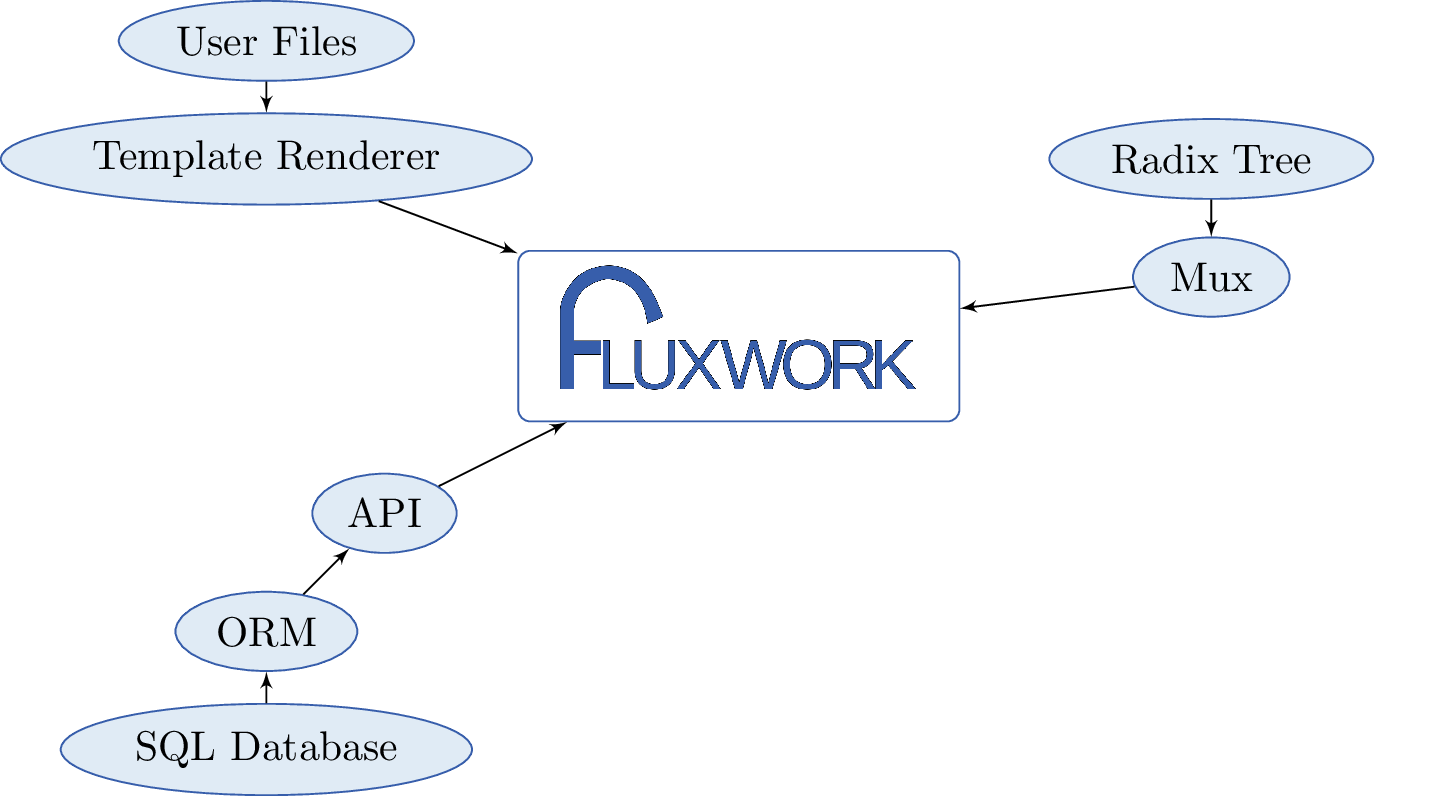
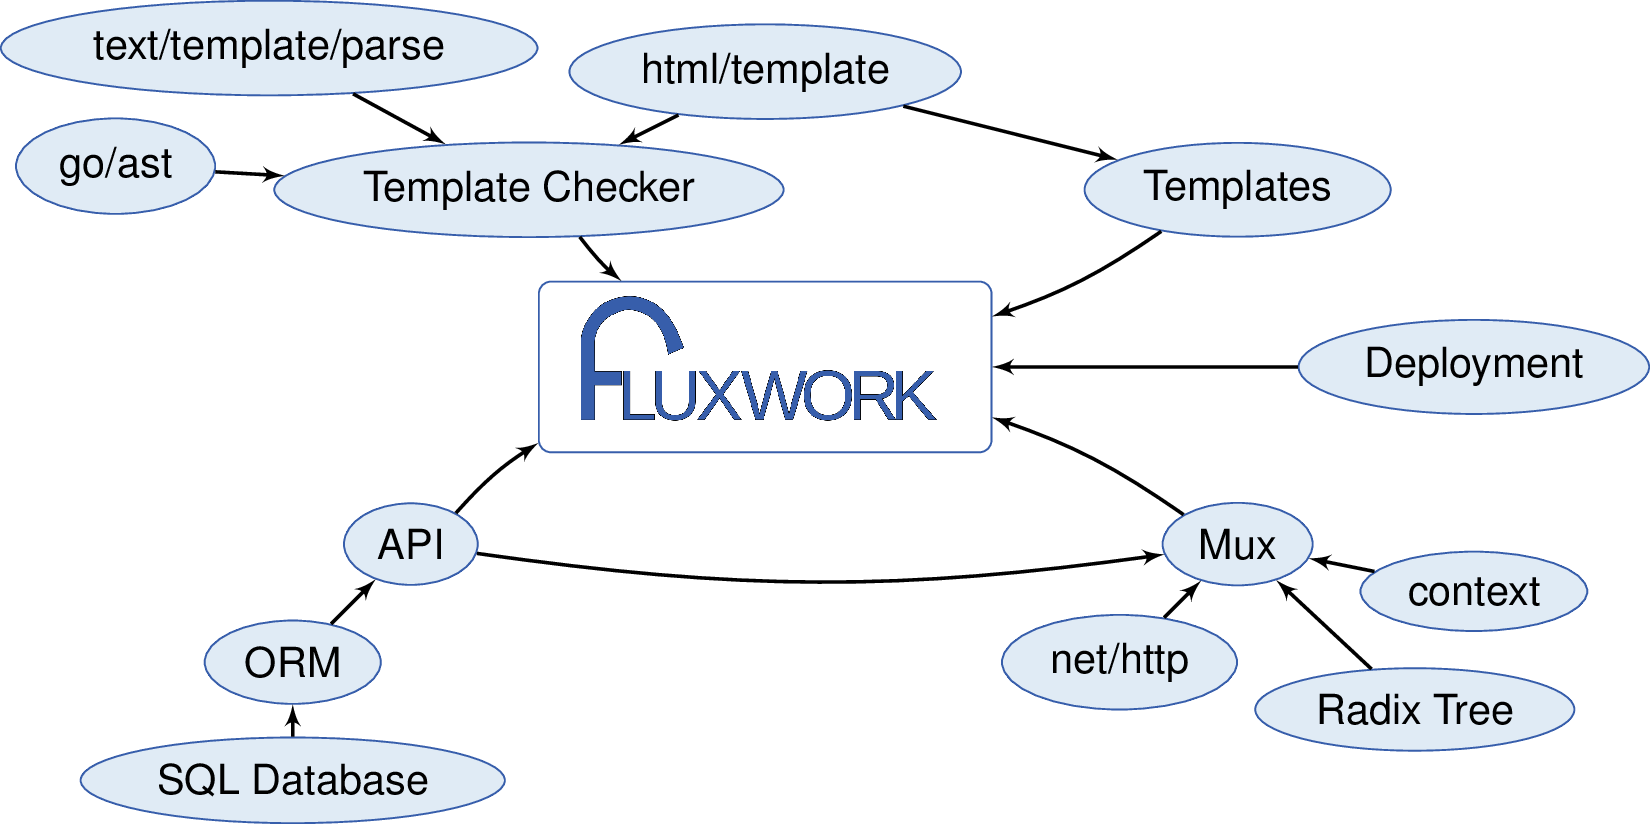
add nodes to pkg

diff --git a/graphics/pkg.tex b/graphics/pkg.tex
@@ -1,23 +1,23 @@
-\documentclass[preview]{standalone}
+\documentclass[]{standalone}
 \usepackage{tikz}
+\usepackage{helvet}
 \usetikzlibrary{arrows,shapes}
 
-\begin{document}
+% default sans
+\renewcommand{\familydefault}{\sfdefault}
 
 % golang colors
 \definecolor{blue}{RGB}{55,94,171}
 \definecolor{lblue}{RGB}{224,235,245}
 
-% default sans
-\renewcommand{\familydefault}{\sfdefault}
 
+\begin{document}
 
 \begin{tikzpicture}
-    \tikzstyle{every node}=[draw=blue,fill=lblue,ellipse,minimum width=100pt,
-    align=center]
+    \tikzstyle{every node}=[draw=blue,fill=lblue,ellipse,align=center]
     \tikzset{
         vertex/.style = {minimum size=1.5em},
-        edge/.style = {->,> = latex'},
+        edge/.style = {thick, ->,> = latex'},
         image/.style 2 args = {
             path picture = {
                 \node at (path picture bounding box.center) {
@@ -26,7 +26,6 @@
         },
         Logo/.style = {
             image = {2.4}{logo},
-            minimum width = 2cm,
         }
     }
     % vertices
@@ -34,28 +33,45 @@
     \node[vertex] (orm) at  (2,1) {ORM};
     \node[vertex] (api) at  (3,2) {API};
 
-    \node[vertex] (mux) at (10,4) {Mux};
-    \node[vertex] (rad) at (10,5) {Radix Tree};
+    \node[vertex] (mux) at (10,2) {Mux};
+    \node[vertex] (rad) at (11.5,0.6) {Radix Tree};
+    \node[vertex] (net) at (9,1) {net/http};
+    \node[vertex] (cxt) at (12,1.6) {context};
 
-    \node[vertex] (tpl) at (2,5) {Template Renderer};
-    \node[vertex] (usr) at (2,6) {User Files};
+    \node[vertex] (tps) at (10,5) {Templates};
 
-    \node[vertex,fill=none,minimum width=none,shape=rectangle,rounded corners=0.1cm]
-        (fw) at  (6,3.5)
-        {\includegraphics[width=3.5cm] {logoc}};
-    };
-    %\node[]{2}{logo} (lg) at  (5,4) {};
+    \node[vertex] (tpl) at (4,5) {Template Checker};
+    \node[vertex] (ast) at (0.5,5.2) {go/ast};
+    \node[vertex] (htm) at (6,6) {html/template};
+    \node[vertex] (prs) at (1.8,6.2) {text/template/parse};
+    
+    \node[vertex] (dpl) at (12,3.5) {Deployment};
+
+    \node[fill=none,shape=rectangle,rounded corners=0.1cm]
+        (fw) at (6,3.5) {
+            \includegraphics[width=3.5cm] {logoc.png}
+        };
 
     %edges
     \draw[edge] (db) to (orm);
     \draw[edge] (orm) to (api);
-    \draw[edge] (api) to (fw);
+    \draw[edge,bend left=8] (api) to (fw);
+    \draw[edge,bend right=8] (api) to (mux);
 
+    \draw[edge] (net) to (mux);
+    \draw[edge] (cxt) to (mux);
     \draw[edge] (rad) to (mux);
-    \draw[edge] (mux) to (fw);
+    \draw[edge,bend right=8] (mux) to (fw);
 
-    \draw[edge] (usr) to (tpl);
-    \draw[edge] (tpl) to (fw);
+    \draw[edge] (ast) to (tpl);
+    \draw[edge] (htm) to (tpl);
+    \draw[edge] (prs) to (tpl);
+    \draw[edge,bend right=6] (tpl) to (fw);
+
+    \draw[edge] (htm) to (tps);
+    \draw[edge,bend left=8] (tps) to (fw);
+
+    \draw[edge] (dpl) to (fw);
 \end{tikzpicture}
 
 \end{document}
